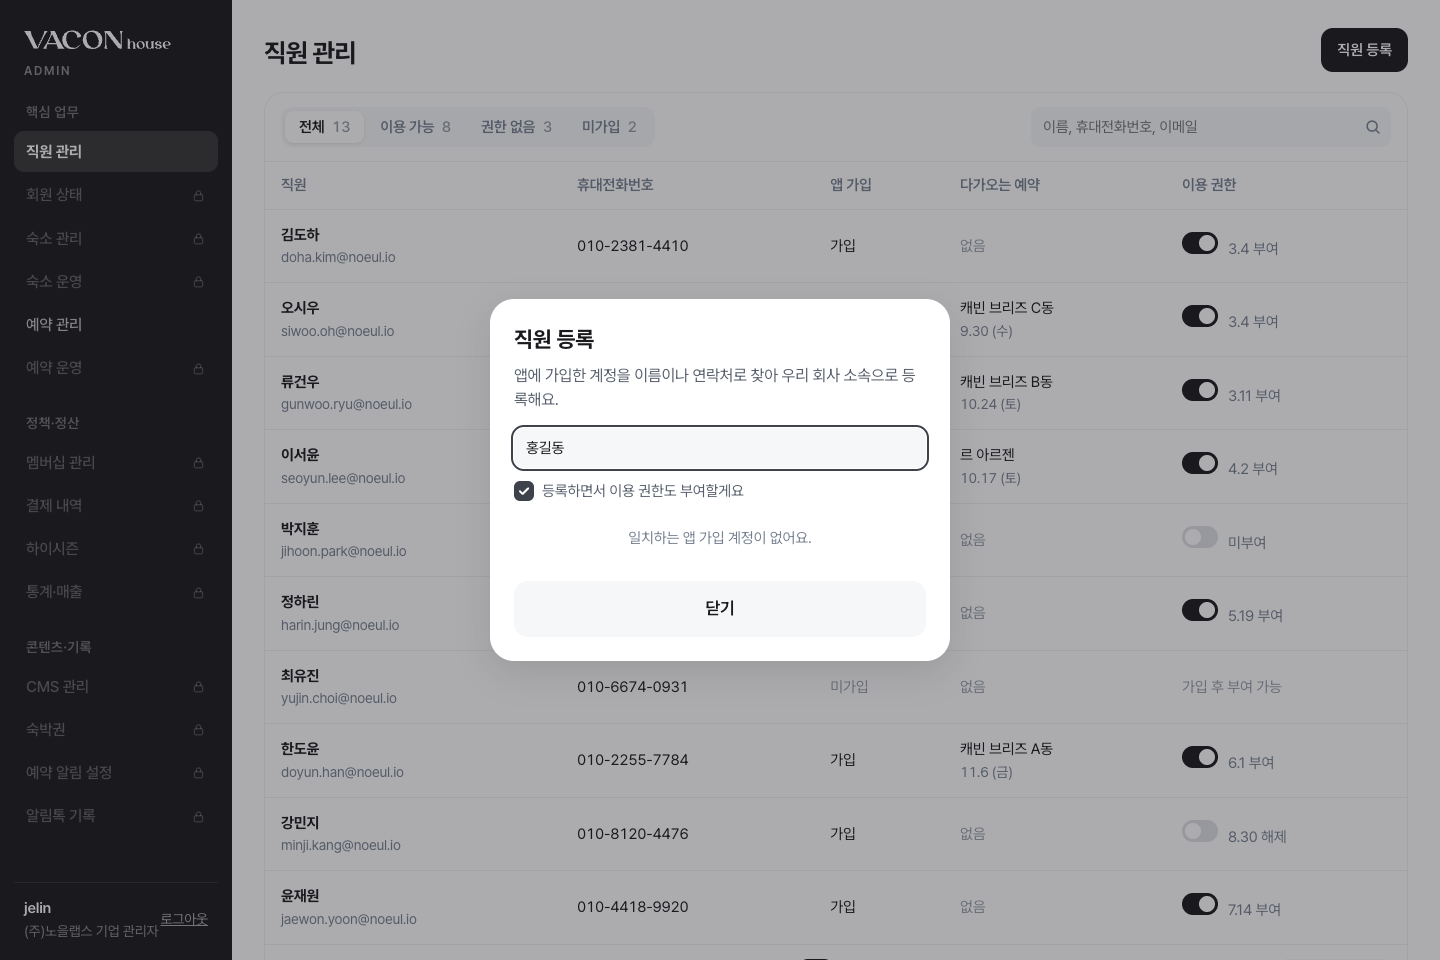
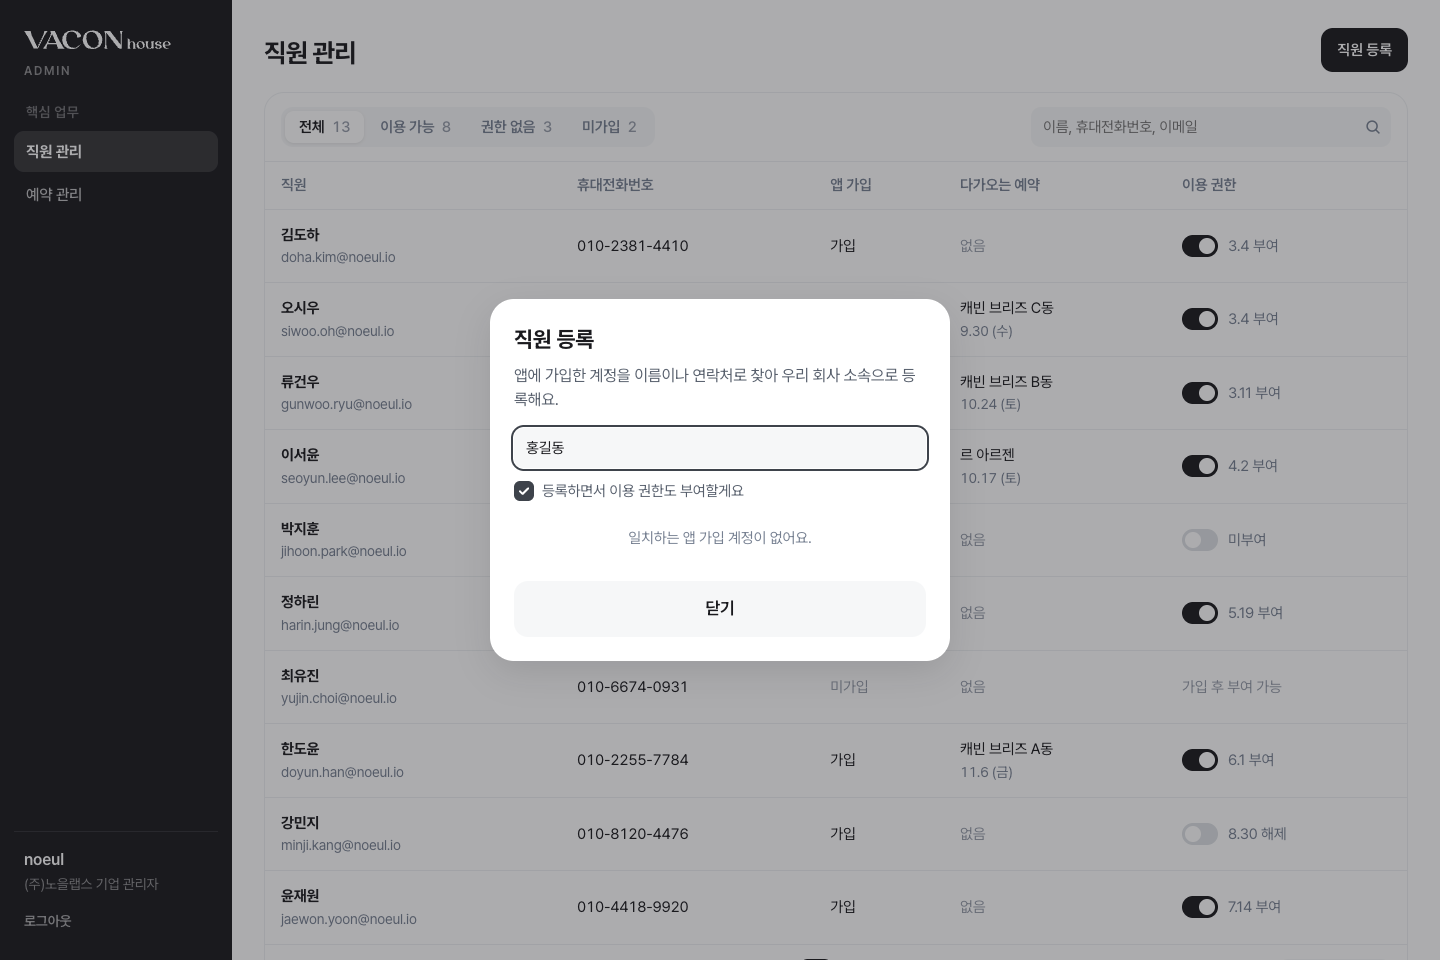
Corp: hide non-permitted menus, stacked account box, aligned permission toggle; refreshed corp screenshots

diff --git a/admin/data.js b/admin/data.js
@@ -1,5 +1,5 @@
 /* 배포 버전이 바뀌면 브라우저에 저장된 데모 데이터를 초기화해요 */
-const VH_VER = '202609301941';
+const VH_VER = '202609301948';
 try { if (localStorage.getItem('vh-ver') !== VH_VER){ const keep = ['vh-admin-session','vh-role','vh-admin-id-v2']; Object.keys(localStorage).filter(k => k.startsWith('vh-') && !keep.includes(k)).forEach(k => localStorage.removeItem(k)); localStorage.setItem('vh-ver', VH_VER); } } catch(e){}
 /* VACON house admin · shared data + helpers (예약 관리 / 예약 상세) */
 const LOGO = `<svg class="logo-svg" xmlns="http://www.w3.org/2000/svg" viewBox="0 0 584.43 119.25" role="img" aria-label="VACON house"><path fill="currentColor" d="M80.10000000000001 19.549999999999997C80.3 24.64999999999999 79.3 29.749999999999993 77.10000000000001 34.349999999999994L52.8 84.55L31.3 39.849999999999994C28.200000000000003 33.449999999999996 26.3 26.549999999999997 25.6 19.44999999999999H0.09999999999999998C6.7 27.449999999999996 12.3 36.14999999999999 16.8 45.449999999999996L37.9 89.35H55.2L78.8 40.24999999999999C82.5 32.64999999999999 87.3 25.549999999999997 93.0 19.349999999999994H80.10000000000001ZM142.60000000000002 63.449999999999996 121.4 19.549999999999997H104.1C106.9 25.25 106.9 31.849999999999994 104.2 37.55L89.2 68.75C85.5 76.35 80.7 83.45 75.0 89.64999999999999H88.0C87.7 84.55 88.7 79.44999999999999 90.9 74.85L92.4 71.85H129.2C131.6 77.55 133.2 83.55 133.8 89.64999999999999H159.3C152.7 81.64999999999999 147.10000000000002 72.85 142.60000000000002 63.55ZM94.6 67.35 111.0 33.55 127.2 67.35ZM196.4 86.35C179.10000000000002 86.35 170.3 72.14999999999999 167.5 59.05C164.70000000000002 45.949999999999996 166.9 26.14999999999999 182.9 22.549999999999997C197.0 19.349999999999994 213.5 31.449999999999996 209.8 45.05H218.9C223.7 45.05 226.8 40.05 224.9 35.64999999999999C220.0 24.549999999999997 205.20000000000002 17.64999999999999 189.3 17.64999999999999C165.5 17.64999999999999 150.9 33.949999999999996 150.9 54.349999999999994C150.9 74.75 165.3 91.45 189.10000000000002 91.45C206.8 91.45 220.3 82.05 225.20000000000002 68.85C225.20000000000002 68.85 211.8 86.25 196.5 86.25ZM270.7 17.64999999999999C245.4 17.64999999999999 232.0 34.14999999999999 232.0 54.55C232.0 74.94999999999999 245.4 91.45 270.7 91.45C296.0 91.45 309.4 74.94999999999999 309.4 54.55C309.4 34.14999999999999 296.0 17.64999999999999 270.7 17.64999999999999ZM281.8 85.14999999999999C269.1 89.75 255.7 81.05 248.9 62.55C242.1 44.05 246.7 28.849999999999994 259.4 24.25C272.1 19.64999999999999 285.1 27.349999999999994 292.2 46.849999999999994C298.9 65.35 294.3 80.64999999999999 281.6 85.25ZM377.7 19.549999999999997C377.7 19.549999999999997 381.9 24.14999999999999 381.9 35.05V74.14999999999999L342.0 22.549999999999997C340.5 20.64999999999999 338.2 19.549999999999997 335.8 19.549999999999997H316.5C316.5 19.549999999999997 320.7 24.14999999999999 320.7 35.05V74.05C320.7 82.95 318.0 87.64999999999999 316.9 89.14999999999999L316.5 89.64999999999999H329.3L328.9 89.14999999999999C327.8 87.64999999999999 325.1 82.95 325.1 74.05V26.249999999999993L371.8 86.55C373.3 88.45 375.6 89.55 378.0 89.55H386.3V35.05C386.3 24.14999999999999 390.5 19.549999999999997 390.5 19.549999999999997ZM429.66926 89.34992 429.46918 89.60002H441.47398L441.37394 89.49998C441.22388 89.2999 440.92376 88.89974 440.57362 88.24947999999999L440.5236 88.14944C439.97338 86.89894 439.37314 84.89814 439.37314 81.89694V75.19426C439.37314 66.89094 436.12184 60.138239999999996 425.96778 60.138239999999996C421.81612 60.138239999999996 419.76529999999997 62.08901999999999 418.0146 64.59002V56.386739999999996C418.0146 52.88533999999999 415.16346 50.0342 411.66206 50.0342H408.11064C408.11064 50.0342 410.21148 52.335119999999996 410.21148 57.787299999999995V81.84692C410.21148 86.2987 408.86093999999997 88.64963999999999 408.31072 89.39994L408.11064 89.65004H420.11544L420.0154 89.55C419.86534 89.34992 419.56522 88.94976 419.21508 88.2995L419.16506 88.19946C418.61484 86.94896 418.0146 84.94816 418.0146 81.94695999999999V74.84412C418.0146 67.39114 419.91535999999996 62.339119999999994 426.01779999999997 62.339119999999994C430.81972 62.339119999999994 431.62004 67.39114 431.62004 74.84412V81.94695999999999C431.62004 86.39874 430.2695 88.74968 429.71927999999997 89.49998ZM460.63163999999995 60.038199999999996C449.62724 60.038199999999996 444.5252 66.7909 444.5252 75.09421999999999C444.5252 83.39753999999999 449.62724 90.15024 460.63163999999995 90.15024C471.63604 90.15024 476.73807999999997 83.39753999999999 476.73807999999997 75.09421999999999C476.73807999999997 66.7909 471.63604 60.038199999999996 460.63163999999995 60.038199999999996ZM465.0334 87.19906C458.68086 89.49998 454.72927999999996 83.09742 452.87854 77.94536C451.02779999999996 72.79329999999999 449.92735999999996 65.2903 456.2799 62.98938C462.63244 60.68845999999999 466.58401999999995 67.14104 468.43476 72.2931C470.28549999999996 77.44516 471.33592 84.89814 464.98337999999995 87.19906ZM511.35191999999995 81.7969 511.3019 68.44156C511.3019 63.989779999999996 512.65244 61.638839999999995 513.2026599999999 60.88853999999999L513.40274 60.638439999999996H501.39794L501.49798 60.738479999999996C501.64804 60.938559999999995 501.94816 61.338719999999995 502.2983 61.98898L502.34832 62.08901999999999C502.89853999999997 63.33951999999999 503.49878 65.34031999999999 503.49878 68.34152L503.54879999999997 76.74488C503.54879999999997 84.14784 501.69806 87.89934 495.59562 87.89934C490.7937 87.89934 488.99298 84.14784 488.99298 76.74488V68.39153999999999C488.99298 63.93975999999999 490.34351999999996 61.58882 490.89374 60.838519999999995L491.09382 60.58842H479.78929999999997L479.88934 60.68845999999999C480.0394 60.88853999999999 480.33952 61.28869999999999 480.68966 61.938959999999994L480.73967999999996 62.038999999999994C481.2899 63.2895 481.89014 65.2903 481.89014 68.2915V74.99418C481.89014 83.2975 485.44156 90.0502 495.59562 90.0502C497.24627999999996 90.0502 499.39714 89.75008 500.59762 89.24987999999999C504.69926 87.49918 509.35112 87.59922 513.40274 89.39994C513.3027 89.24987999999999 512.85252 88.64963999999999 512.40234 87.49918C511.90214 86.19866 511.40193999999997 84.24788 511.40193999999997 81.69686ZM530.8096999999999 72.04299999999999C528.10862 71.64283999999999 524.7572799999999 70.89254 524.7572799999999 68.79169999999999C524.7572799999999 63.989779999999996 528.0586 62.2891 530.3095 62.2891C532.26028 62.2891 535.76168 63.989779999999996 535.76168 69.69206H540.3135C542.0641999999999 69.69206 543.4147399999999 67.89134 542.7144599999999 66.2907C540.7136599999999 61.838919999999995 534.2610799999999 60.138239999999996 530.2094599999999 60.138239999999996C524.8072999999999 60.338319999999996 517.0041799999999 62.739279999999994 517.0041799999999 68.84172C517.0041799999999 74.69406 522.7064599999999 76.84492 529.8593199999999 77.94536C533.5608 78.49557999999999 536.5119799999999 79.24588 536.5119799999999 81.39674C536.5119799999999 86.44876 532.86052 88.09942 530.35952 88.09942C527.70846 88.09942 524.4071399999999 86.44876 524.4071399999999 81.39674H520.10542C518.15464 81.39674 516.8041 83.5476 517.85452 85.19825999999999C520.00538 88.64963999999999 525.7576799999999 90.25028 530.3095 90.25028C537.2122599999999 90.25028 544.3150999999999 87.64923999999999 544.3150999999999 81.2967C544.3150999999999 74.7941 537.9125399999999 73.09342 530.8096999999999 71.99297999999999ZM566.4739599999999 87.49918C560.3214999999999 87.49918 557.02018 82.047 555.8697199999999 76.64484H575.1274199999999C578.12862 76.64484 580.2794799999999 73.99378 579.52918 71.0426C577.77848 64.23988 571.6260199999999 60.08821999999999 563.77288 60.08821999999999C553.86892 60.08821999999999 547.66644 66.74088 547.66644 75.04419999999999C547.66644 83.34752 553.86892 90.20026 563.77288 90.20026C571.12582 90.20026 577.17824 85.69846 579.22906 80.34631999999999C579.22906 80.34631999999999 574.02698 87.49918 566.4239399999999 87.49918ZM561.12182 62.58922C566.97416 60.98858 571.0257799999999 66.59082 571.9261399999999 72.2931C572.0762 73.2935 571.2758799999999 74.39394 570.22546 74.39394H555.41954C555.0694 69.542 555.9197399999999 63.989779999999996 561.0717999999999 62.58922Z"/></svg>
@@ -347,12 +347,12 @@ function mountSide(){
   const side = document.querySelector('.side');
   side.innerHTML = `
     <div class="brand"><a href="./">${LOGO}</a><small>ADMIN</small></div>
-    <nav class="nav">${NAV.map(([id, lb, items]) => `<div class="ng">
+    <nav class="nav">${NAV.map(([id, lb, items]) => [id, lb, items.filter(x => !locked(x))]).filter(g => g[2].length).map(([id, lb, items]) => `<div class="ng">
       <div class="ngh">${lb}</div>
       ${items.map(x => locked(x) ? `<a href="#" class="lock" data-lock>${x}${ICON.lock}</a>` : `<a href="${href(x)}" class="${x === cur ? 'on' : ''}" ${href(x) === '#' ? 'data-soon' : ''}>${navLb(x)}${x === '예약 관리' && n ? `<span class="cnt">${n}</span>` : ''}</a>`).join('')}
     </div>`).join('')}</nav>
-    <div class="userbox"><div><b id="who">jelin</b><small>${IS_CORP ? '(주)노을랩스 기업 관리자' : '운영 관리자'}</small></div><a href="../" id="logout">로그아웃</a></div>`;
-  try { const u = localStorage.getItem('vh-admin-session'); if (u) document.getElementById('who').textContent = u; } catch(e){}
+    <div class="userbox"><div class="ub"><b id="who">jelin</b><small title="${IS_CORP ? '(주)노을랩스 기업 관리자' : '운영 관리자'}">${IS_CORP ? '(주)노을랩스 기업 관리자' : '운영 관리자'}</small></div><a href="../" id="logout">로그아웃</a></div>`;
+  try { const u = IS_CORP ? 'noeul' : localStorage.getItem('vh-admin-session'); if (u) document.getElementById('who').textContent = u; } catch(e){}
   document.getElementById('logout').onclick = () => { try { localStorage.removeItem('vh-admin-session'); localStorage.removeItem('vh-role'); } catch(e){} resetDemo(); };
   side.querySelectorAll('[data-soon]').forEach(a => a.onclick = e => { e.preventDefault(); toast(`${a.textContent} 화면은 준비 중이에요`, false); });
   side.querySelectorAll('[data-lock]').forEach(a => a.onclick = e => { e.preventDefault(); toast('기업 관리자 권한으로는 볼 수 없는 메뉴예요', false); });

diff --git a/admin/members.html b/admin/members.html
@@ -10,7 +10,7 @@
 <link rel="preconnect" href="https://fonts.googleapis.com">
 <link rel="preconnect" href="https://fonts.gstatic.com" crossorigin>
 <link rel="stylesheet" href="https://fonts.googleapis.com/css2?family=Noto+Sans+KR:wght@400;500;600;700&display=swap">
-<link rel="stylesheet" href="admin.css?v=202609301941">
+<link rel="stylesheet" href="admin.css?v=202609301948">
 <style>
 .wrap{max-width:1480px;width:100%;display:flex;flex-direction:column;gap:20px}
 .head h1{margin:0;font-size:26px;font-weight:700;letter-spacing:-.03em}
@@ -39,9 +39,9 @@ tbody tr:hover td{background:#FAFBFC}
   <aside class="side"></aside>
   <main class="main"><div class="wrap" id="wrap"></div></main>
 </div>
-<script src="data.js?v=202609301941"></script>
-<script src="../corp/corp-data.js?v=202609301941"></script>
-<script src="cases.js?v=202609301941" defer></script>
+<script src="data.js?v=202609301948"></script>
+<script src="../corp/corp-data.js?v=202609301948"></script>
+<script src="cases.js?v=202609301948" defer></script>
 <script>
 mountSide();
 const S = {q:'', f:'전체', pg:{page:1, size:10}};
@@ -90,7 +90,7 @@ function renderCorp(){
         <td class="num">${e.phone}</td>
         <td>${e.joined ? '가입' : '<span style="color:var(--ink-4)">미가입</span>'}</td>
         <td>${u.length ? `${vById[u[0].villa].name}<span class="sub num">${mdw(u[0].in)}${u.length > 1 ? ` 외 ${u.length - 1}건` : ''}</span>` : '<span style="color:var(--ink-4)">없음</span>'}</td>
-        <td>${!e.joined ? '<span style="color:var(--ink-4)">가입 후 부여 가능</span>' : `<label class="tgl" onclick="event.stopPropagation()"><input type="checkbox" data-perm="${i}" ${e.perm ? 'checked' : ''} aria-label="${esc(e.name)} 이용 권한"></label><span style="margin-left:10px;color:var(--ink-3)">${e.perm ? `${e.since} 부여` : e.off ? `${e.off} 해제` : '미부여'}</span>`}</td></tr>`; }).join('')
+        <td>${!e.joined ? '<span style="color:var(--ink-4)">가입 후 부여 가능</span>' : `<div style="display:flex;align-items:center;gap:10px"><label class="tgl" onclick="event.stopPropagation()"><input type="checkbox" data-perm="${i}" ${e.perm ? 'checked' : ''} aria-label="${esc(e.name)} 이용 권한"></label><span style="color:var(--ink-3)">${e.perm ? `${e.since} 부여` : e.off ? `${e.off} 해제` : '미부여'}</span></div>`}</td></tr>`; }).join('')
         : '<tr><td colspan="5" class="empty">조건에 맞는 직원이 없어요.</td></tr>'}</tbody></table>
       ${pagerHTML(total, S.pg)}
     </div>`;

diff --git a/admin/member.html b/admin/member.html
@@ -10,7 +10,7 @@
 <link rel="preconnect" href="https://fonts.googleapis.com">
 <link rel="preconnect" href="https://fonts.gstatic.com" crossorigin>
 <link rel="stylesheet" href="https://fonts.googleapis.com/css2?family=Noto+Sans+KR:wght@400;500;600;700&display=swap">
-<link rel="stylesheet" href="admin.css?v=202609301941">
+<link rel="stylesheet" href="admin.css?v=202609301948">
 <style>
 .wrap{max-width:1320px;width:100%;display:flex;flex-direction:column;gap:20px}
 .back{display:inline-flex;align-items:center;gap:2px;color:var(--ink-3);font-weight:600;font-size:15px;text-decoration:none;align-self:flex-start;margin-left:-4px}
@@ -77,9 +77,9 @@ tbody tr:hover td{background:#FAFBFC}
   <aside class="side"></aside>
   <main class="main"><div class="wrap" id="wrap"></div></main>
 </div>
-<script src="data.js?v=202609301941"></script>
-<script src="../corp/corp-data.js?v=202609301941"></script>
-<script src="cases.js?v=202609301941" defer></script>
+<script src="data.js?v=202609301948"></script>
+<script src="../corp/corp-data.js?v=202609301948"></script>
+<script src="cases.js?v=202609301948" defer></script>
 <script>
 mountSide();
 const $ = id => document.getElementById(id);

diff --git a/admin/reservation.html b/admin/reservation.html
@@ -9,7 +9,7 @@
 <link rel="preconnect" href="https://fonts.googleapis.com">
 <link rel="preconnect" href="https://fonts.gstatic.com" crossorigin>
 <link rel="stylesheet" href="https://fonts.googleapis.com/css2?family=Noto+Sans+KR:wght@400;500;600;700&display=swap">
-<link rel="stylesheet" href="admin.css?v=202609301941">
+<link rel="stylesheet" href="admin.css?v=202609301948">
 <style>
 .wrap{max-width:1480px;width:100%;display:flex;flex-direction:column;gap:20px}
 .back{display:inline-flex;align-items:center;gap:2px;color:var(--ink-3);font-weight:600;font-size:15px;text-decoration:none;align-self:flex-start;margin-left:-4px}
@@ -94,8 +94,8 @@
   <aside class="side"></aside>
   <main class="main"><div class="wrap" id="wrap"></div></main>
 </div>
-<script src="data.js?v=202609301941"></script>
-<script src="cases.js?v=202609301941" defer></script>
+<script src="data.js?v=202609301948"></script>
+<script src="cases.js?v=202609301948" defer></script>
 <script>
 const id = +(new URLSearchParams(location.search).get('id') ?? 42);
 const r = R[id] || R[42] || R.filter(Boolean)[0];

diff --git a/admin/stats.html b/admin/stats.html
@@ -9,7 +9,7 @@
 <link rel="preconnect" href="https://fonts.googleapis.com">
 <link rel="preconnect" href="https://fonts.gstatic.com" crossorigin>
 <link rel="stylesheet" href="https://fonts.googleapis.com/css2?family=Noto+Sans+KR:wght@400;500;600;700&display=swap">
-<link rel="stylesheet" href="admin.css?v=202609301941">
+<link rel="stylesheet" href="admin.css?v=202609301948">
 <style>
 .wrap{max-width:1320px;display:flex;flex-direction:column;gap:20px}
 .bar2{display:flex;justify-content:space-between;align-items:center;gap:12px;flex-wrap:wrap}
@@ -78,8 +78,8 @@
   <main class="main"><div class="wrap" id="wrap"></div></main>
 </div>
 <div class="tip" id="tip" hidden></div>
-<script src="data.js?v=202609301941"></script>
-<script src="cases.js?v=202609301941" defer></script>
+<script src="data.js?v=202609301948"></script>
+<script src="cases.js?v=202609301948" defer></script>
 <script>
 /* 3–8월은 운영 시스템 월별 집계(시안용 예시), 9월은 예약 데이터에서 직접 계산 */
 const HIST = [

diff --git a/admin/index.html b/admin/index.html
@@ -9,7 +9,7 @@
 <link rel="preconnect" href="https://fonts.googleapis.com">
 <link rel="preconnect" href="https://fonts.gstatic.com" crossorigin>
 <link rel="stylesheet" href="https://fonts.googleapis.com/css2?family=Noto+Sans+KR:wght@400;500;600;700&display=swap">
-<link rel="stylesheet" href="admin.css?v=202609301941">
+<link rel="stylesheet" href="admin.css?v=202609301948">
 <style>
 /* TDS Tab */
 .tabs{display:flex;gap:28px;border-bottom:1px solid var(--line);margin-top:-4px}
@@ -428,8 +428,8 @@ body.anno .main{margin-right:432px}
 </aside>
 <div id="layer"></div>
 
-<script src="data.js?v=202609301941"></script>
-<script src="cases.js?v=202609301941" defer></script>
+<script src="data.js?v=202609301948"></script>
+<script src="cases.js?v=202609301948" defer></script>
 <script>
 const $ = id => document.getElementById(id);
 const XI = '<svg viewBox="0 0 20 20" fill="none" stroke="currentColor" stroke-width="1.8" stroke-linecap="round"><path d="M5 5l10 10M15 5L5 15"/></svg>';

diff --git a/admin/admin.css b/admin/admin.css
@@ -280,3 +280,12 @@ body.corp .hq-only,body.corp [data-do],body.corp [data-move],body.corp [data-edi
 .pg-nums button:disabled{opacity:.3;cursor:default}
 .pg-nums button svg{width:18px;height:18px}
 .pg-size{justify-self:end;height:36px;border:0;border-radius:10px;background:var(--surface-2);padding:0 12px;font-size:15px;font-weight:600;color:var(--ink-2);cursor:pointer}
+
+/* 계정: 아이디, 소속과 권한, 로그아웃을 한 줄씩 */
+.side .userbox{flex-direction:column;align-items:stretch;gap:10px;padding:16px 10px 4px}
+.userbox .ub{min-width:0}
+.userbox .ub b,.userbox .ub small{display:block;white-space:nowrap;overflow:hidden;text-overflow:ellipsis}
+.userbox .ub b{font-size:16px}
+.userbox .ub small{margin-top:2px}
+.side .userbox #logout{align-self:flex-start;font-size:14px;font-weight:600;text-decoration:none;padding:6px 10px;margin-left:-10px;border-radius:8px}
+.side .userbox #logout:hover{background:rgba(255,255,255,.08)}
